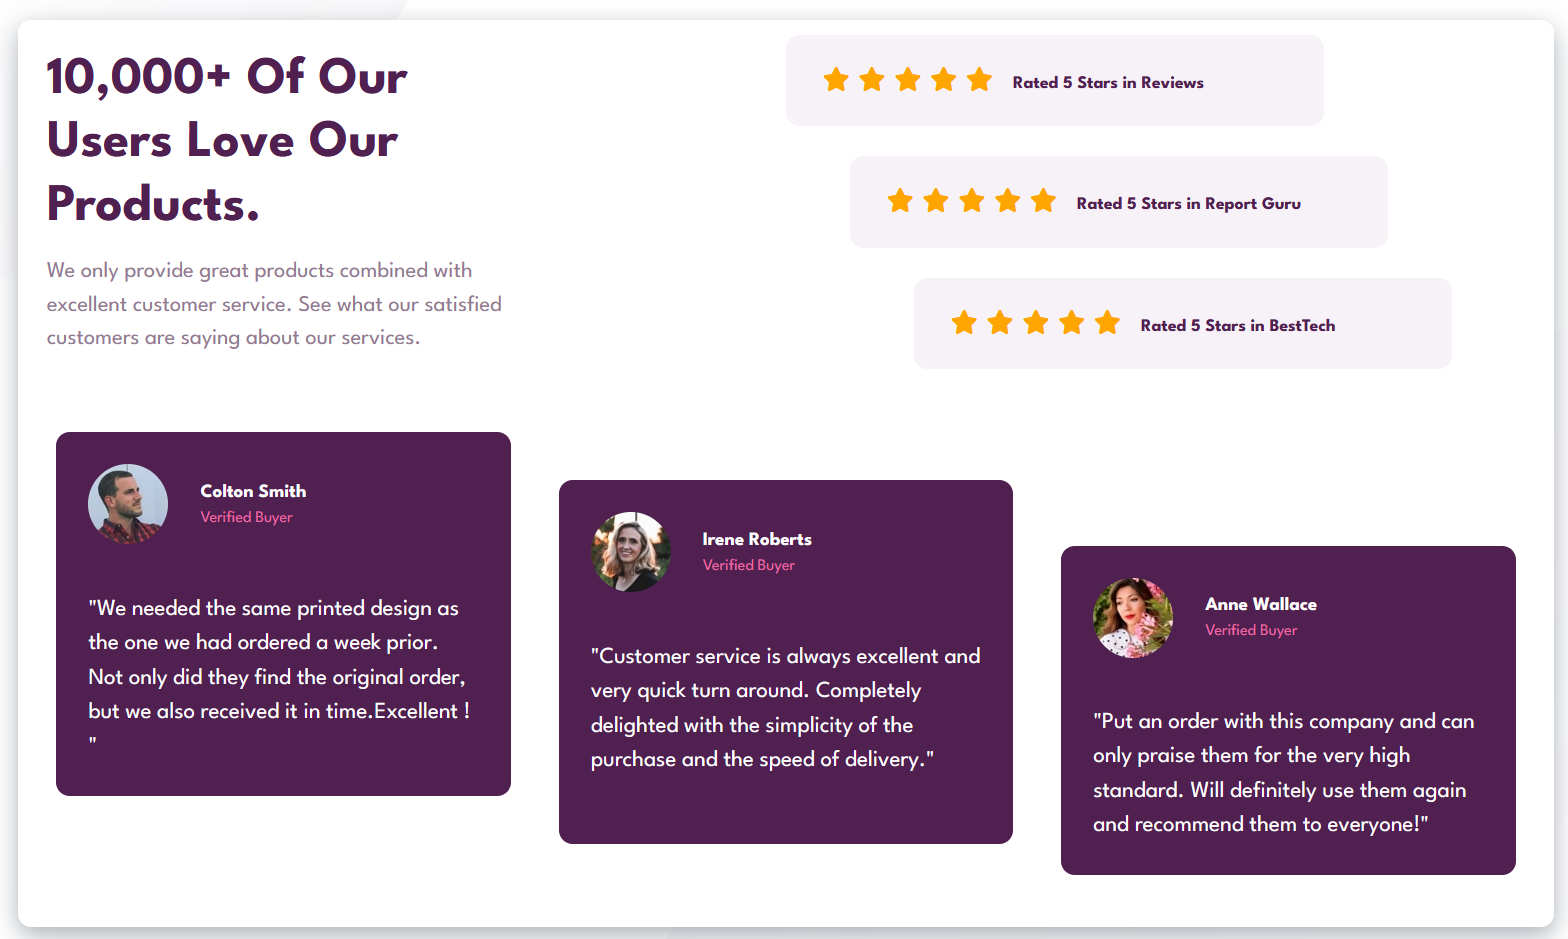
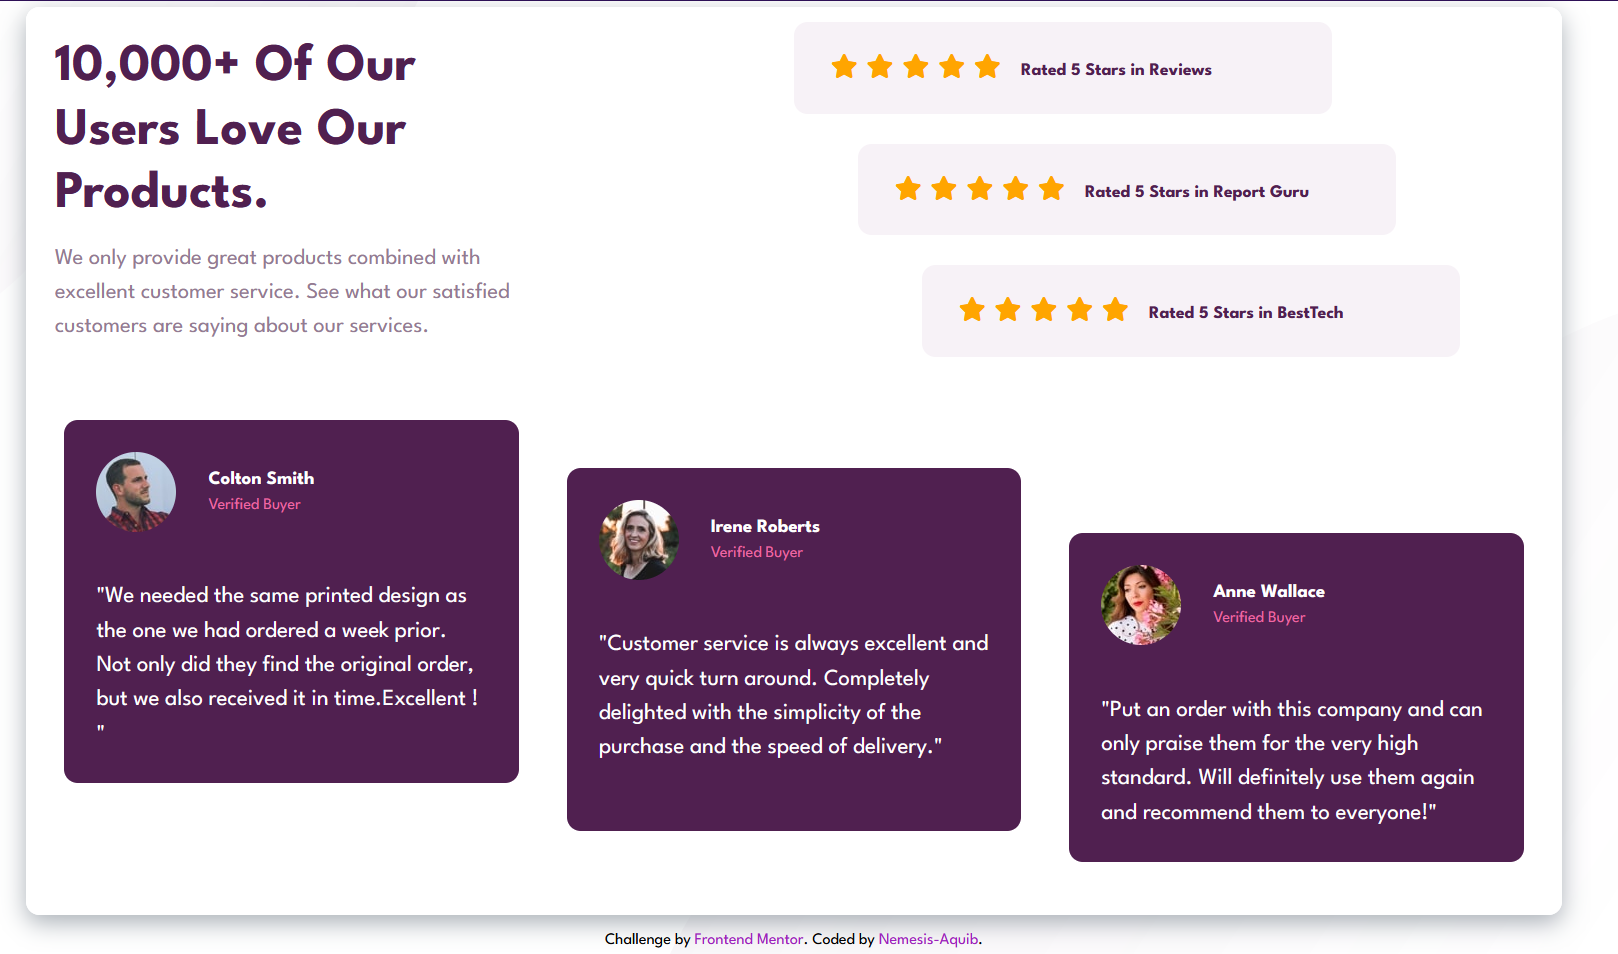
Iniatil commit

diff --git a/style.css b/style.css
@@ -202,14 +202,14 @@ img{
 }
 
 .attribution{
-    margin: 5rem;
+    margin-top: 1rem;
     text-align: center;
 }
 
 
 a{
     text-decoration :none;
-    color: black;
+    color: rgb(156, 33, 187);
 }
 
 @media only screen and (max-width: 600px) {
